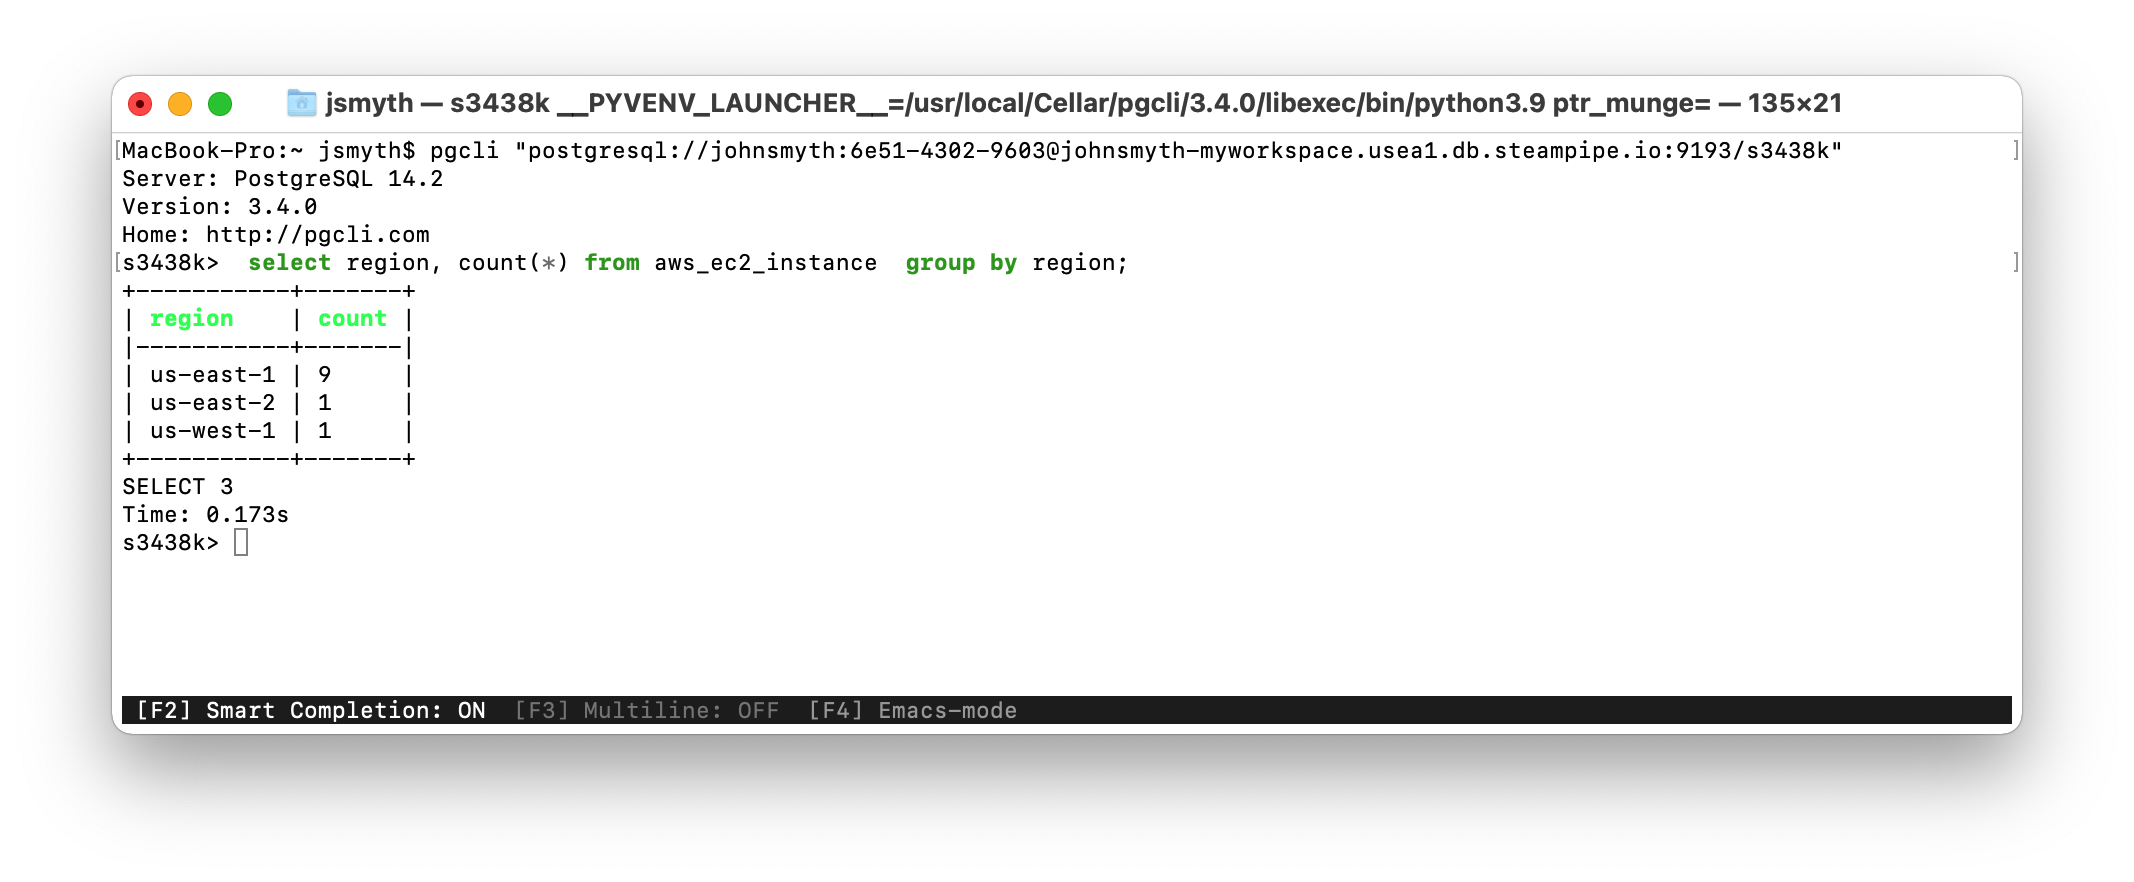
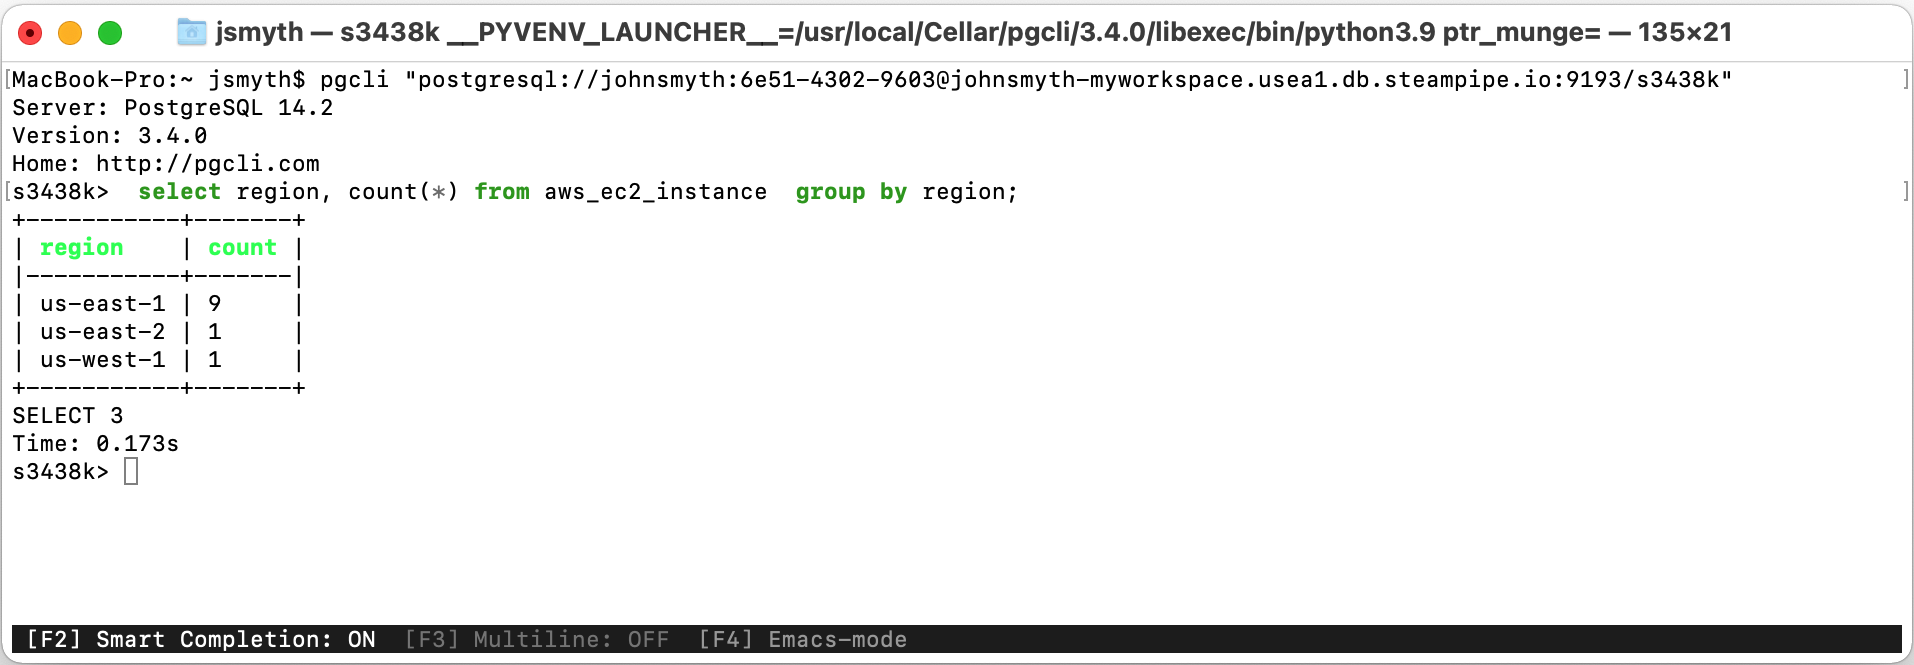
reframe 2 images

diff --git a/docs/cloud/integrations/overview.md b/docs/cloud/integrations/overview.md
@@ -10,7 +10,7 @@ Your Steampipe workspace database has a public IP address, allowing you to conne
 The **Connect** tab for your workspace will provide the Postgres connection string.  Note that the connection string includes your password.  It is masked in the web console display, but you can click **Copy** to copy it so you can paste it into your tool's configuration screen.
 
 <div style={{"borderWidth":"thin", "borderStyle":"solid", "borderColor":"lightgray", "padding":"12px", "marginTop":"1em", "marginBottom":"1em", "width":"90%"}}>
-<img src="/images/docs/cloud/int_connecting.png" width="90%"/>
+<img src="/images/docs/cloud/int_connecting.png"/>
 </div>
 
 

diff --git a/docs/cloud/integrations/pgcli.md b/docs/cloud/integrations/pgcli.md
@@ -15,7 +15,7 @@ The **Connect** tab for your workspace will provide the command, including Postg
 Note that the connection string includes your password.  It is masked in the web console display, but you can hover over the command and click the clipboard icon to copy it so you can paste it into your terminal.
 
 <div style={{"borderWidth":"thin", "borderStyle":"solid", "borderColor":"lightgray", "padding":"12px", "marginTop":"1em", "marginBottom":"1em", "width":"90%"}}>
-<img src="/images/docs/cloud/int_pgcli.png" width="90%"/>
+<img src="/images/docs/cloud/int_pgcli.png"/>
 </div>
 
 

diff --git a/docs/cloud/integrations/psql.md b/docs/cloud/integrations/psql.md
@@ -15,5 +15,5 @@ The **Connect** tab for your workspace will provide the command, including Postg
 Note that the connection string includes your password.  It is masked in the web console display, but you can hover over the command and click the clipboard icon to copy it so you can paste it into your terminal.
 
 <div style={{"borderWidth":"thin", "borderStyle":"solid", "borderColor":"lightgray", "padding":"12px", "marginTop":"1em", "marginBottom":"1em", "width":"90%"}}>
-<img src="/images/docs/cloud/int_psql.png" width="90%"/>
+<img src="/images/docs/cloud/int_psql.png"/>
 </div>

diff --git a/docs/cloud/integrations/cli.md b/docs/cloud/integrations/cli.md
@@ -16,6 +16,6 @@ export STEAMPIPE_CLOUD_TOKEN=spt_c6f5tmpe4mv9appio5rg_3jz0a8fakekeyf8ng72qr646
 The **Connect** tab for your workspace provides examples that you can copy, paste and run to run an interactive query, run an interactive dashboard, or run a benchmark against your cloud workspace!
 
 <div style={{"borderWidth":"thin", "borderStyle":"solid", "borderColor":"lightgray", "padding":"12px", "marginTop":"1em", "marginBottom":"1em", "width":"90%"}}>
-<img src="/images/docs/cloud/int_cli.png" width="90%"/>
+<img src="/images/docs/cloud/int_cli.png"/>
 </div>
 
